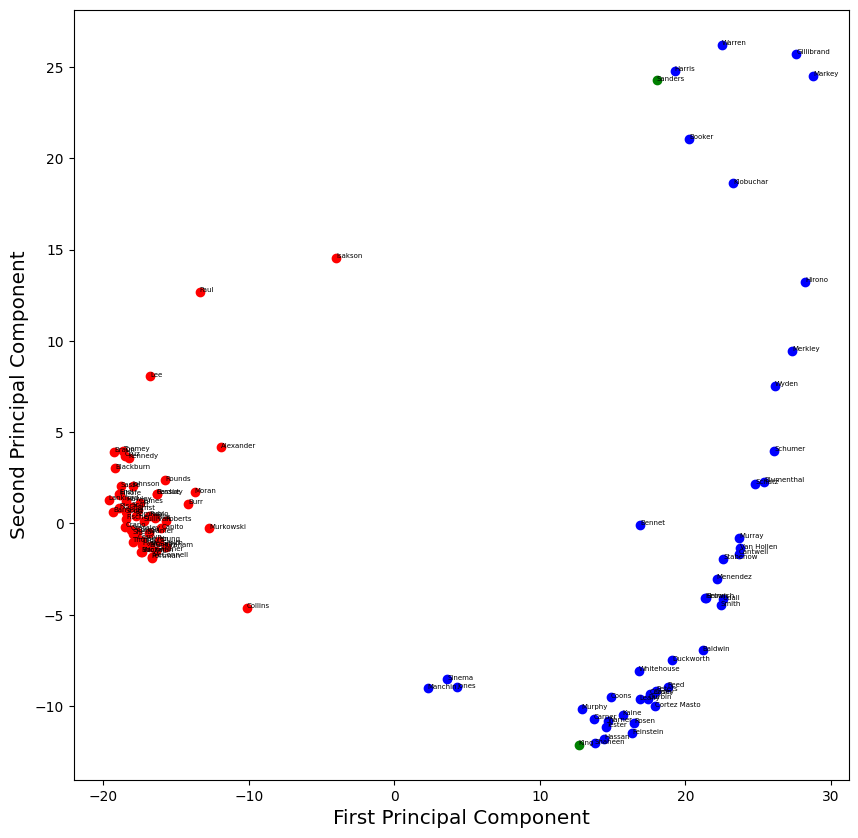
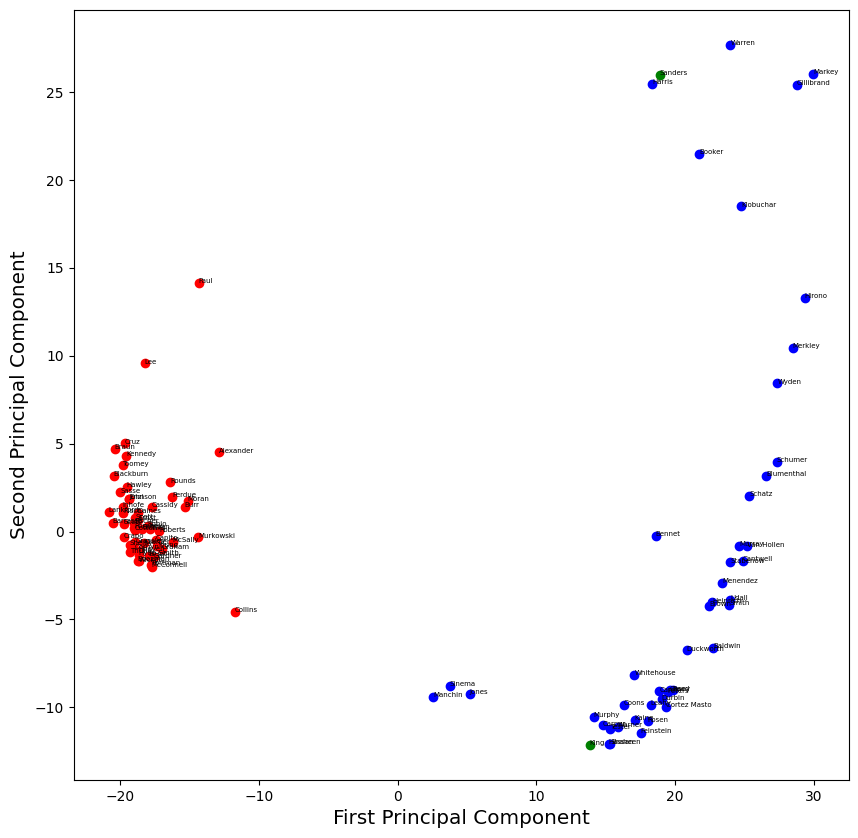
rerun for US senate

diff --git a/scripts/reduction.py b/scripts/reduction.py
@@ -9,14 +9,13 @@ import matplotlib.pyplot as plt
 from utils.cleaning import cleaning_vote_outcomes, data_restriction
 from utils.dim_reduction import get_dim_reduction
 
-DATA_PATH = '/Users/nico/Dropbox (MIT)/data_lake/parliament_voting_data/'
-
 if __name__ == '__main__':
 
     parser = argparse.ArgumentParser()
     parser.add_argument('country_code', help='which country?')
     parser.add_argument('chamber', help='which chamber?')
     parser.add_argument('legislature_num', help='which legislature or year?')
+    parser.add_argument('--data_path', default='', type=str, help='which legislature or year?')
     parser.add_argument('--vote_freq_cutoff', default = 0.25, type = float, help='what share of people have to vote for the vote to count?')
     parser.add_argument('--ind_freq_cutoff', default = 0.5, type = float, help='What share of votes must a person cast to count?')
     parser.add_argument('--dim_reduc', default = 'pca', type = str, help='Which type of dimension reduction?')
@@ -25,13 +24,13 @@ if __name__ == '__main__':
     print("\nRunning {} {} {}".format(args.country_code.upper(), args.chamber, args.legislature_num))
 
     if args.country_code=='fr':
-        votes = pd.read_csv(DATA_PATH + 'france_assemblee_voting/legislature_{}_vote_outcome.tsv'.format(args.legislature_num), sep='\t')
+        votes = pd.read_csv(args.data_path + 'france_assemblee_voting/legislature_{}_vote_outcome.tsv'.format(args.legislature_num), sep='\t')
 
     elif args.country_code=='us' and args.chamber == 'senate':
-        votes = pd.read_csv(DATA_PATH + 'us_senate_voting/congress_{}_1_vote_outcome.tsv'.format(args.legislature_num), sep='\t')
+        votes = pd.read_csv(args.data_path + 'us_senate_voting/congress_{}_1_vote_outcome.tsv'.format(args.legislature_num), sep='\t')
         votes['vote_num'] = "1_" + votes['vote_num'].astype(str)
-        if os.path.exists(DATA_PATH + 'us_senate_voting/congress_{}_1_vote_outcome.tsv'.format(args.legislature_num)):
-            votes_2 = pd.read_csv(DATA_PATH + 'us_senate_voting/congress_{}_2_vote_outcome.tsv'.format(args.legislature_num), sep='\t')
+        if os.path.exists(args.data_path + 'us_senate_voting/congress_{}_1_vote_outcome.tsv'.format(args.legislature_num)):
+            votes_2 = pd.read_csv(args.data_path + 'us_senate_voting/congress_{}_2_vote_outcome.tsv'.format(args.legislature_num), sep='\t')
             votes_2['vote_num'] = "2_" + votes['vote_num'].astype(str)
             votes = pd.concat([votes, votes_2])
             del votes_2

diff --git a/scripts/utils/plotting.py b/scripts/utils/plotting.py
@@ -29,12 +29,17 @@ def dim_reduc_plot(df, args, type='plotly', display_names=False):
     color_dict['Independent'] = 'green'
 
     ids = {}
-    ids['us_senate_116'] = [
-        18, 25, 31, 37, 47, 51, 57, 58, 66, 70, 73, 77, 80
+    names = [
+        'Cruz', 'Paul', 'Lee', 'Collins', 'McConnell', 
+        'Manchin', 'Wyden', 'Schumer', 'Klobuchar', 'Markey', 'Warren', 'Harris'
     ]
-    if run_name not in ids:
-        ids[run_name] = []
-    df['display_name'] = [name if id in ids[run_name] else "" for name, id in zip(df['name'], df['id'])]
+    df['display_name'] = [name if name in names else "" for name in df['name']]
+    # ids['us_senate_116'] = [
+    #     18, 25, 31, 37, 47, 51, 57, 58, 66, 70, 73, 77, 80
+    # ]
+    # if run_name not in ids:
+    #     ids[run_name] = []
+    # df['display_name'] = [name if id in ids[run_name] else "" for name, id in zip(df['name'], df['id'])]
 
     if type == 'static':
         # Matplotlib version
